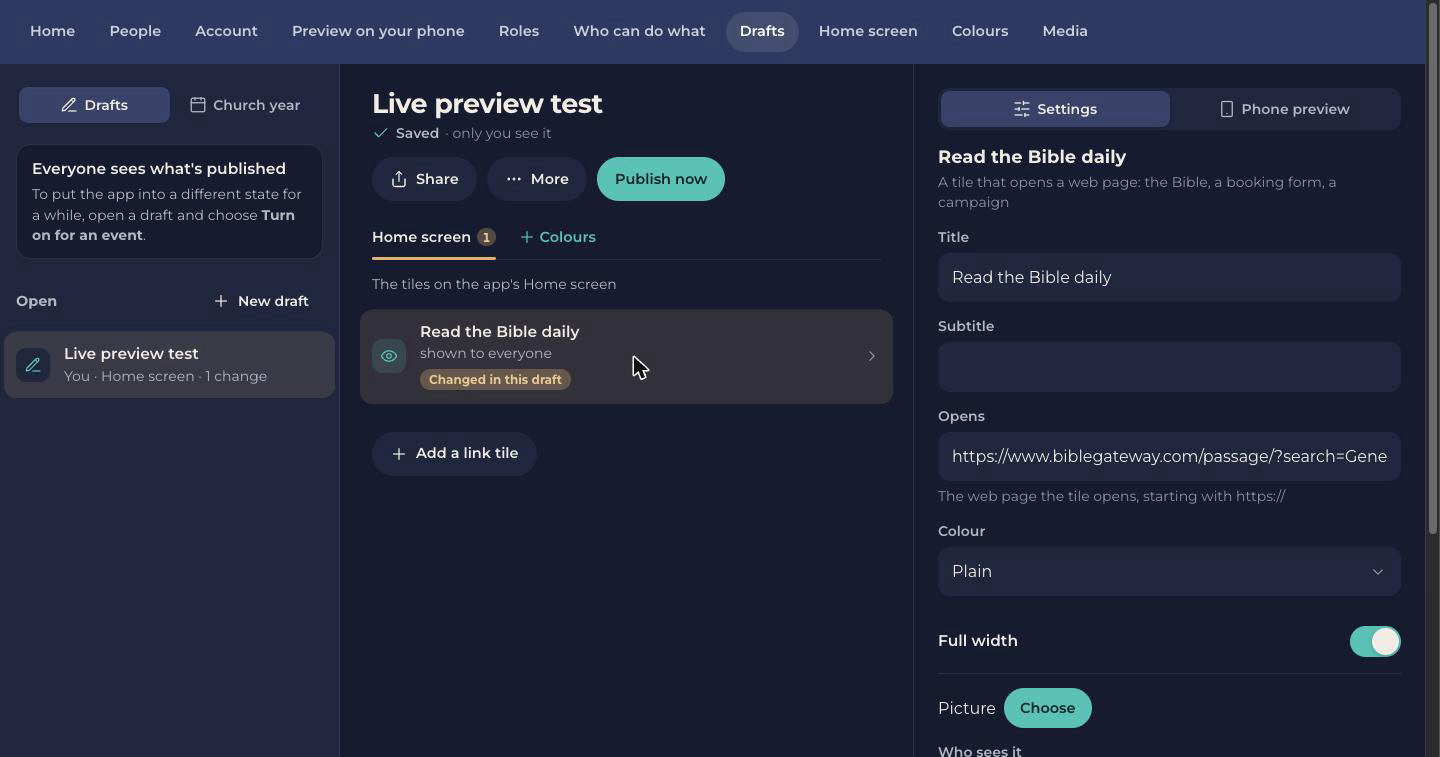
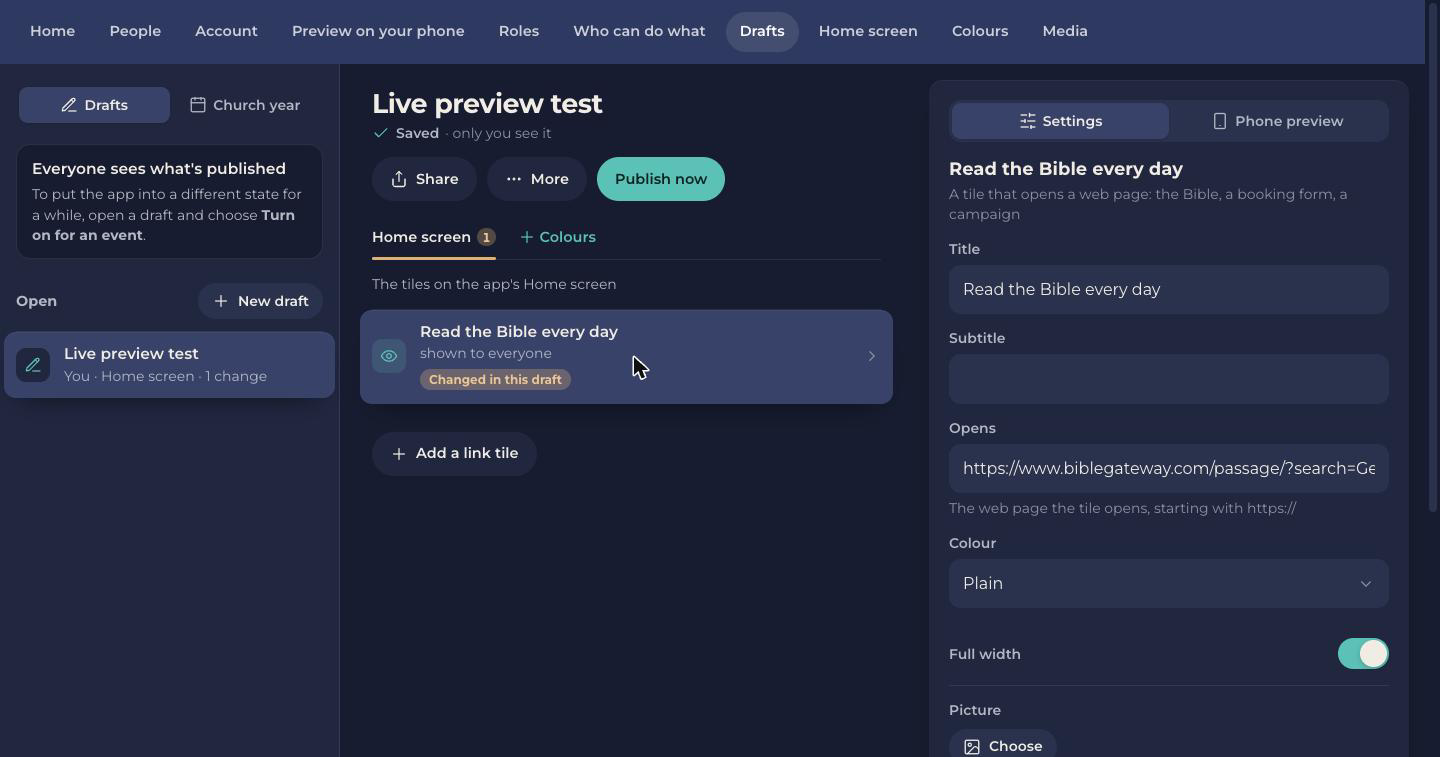
Drafts: fixes from the impeccable finish review
Selected rows are raised (segment surface and lift) rather than an orange wash, so selected
and changed no longer look alike; the settings and preview pane is a lifted panel; the
picture field has a proper label and a quiet button, leaving Publish now the only filled
primary; New draft has a button shape in the sand column; the admin scrollbar takes the
palette; the event layer band reads as one statement instead of a caption over a name.

Changed region(s): [[0.6562, 0.0, 1.0, 0.9115], [0.0, 0.395, 0.625, 0.5469], [0.6562, 0.8811, 0.7812, 1.0]]

diff --git a/src/Platform/GSBC.ChurchApp.Platform.Ui/wwwroot/css/ui.css b/src/Platform/GSBC.ChurchApp.Platform.Ui/wwwroot/css/ui.css
@@ -405,7 +405,8 @@ button.row:active, a.row:active { background: var(--line); }
 .workbench--no-detail { grid-template-columns: minmax(280px, 340px) minmax(0, 1fr); }
 .workbench__aside { padding: 20px 16px 32px; background: var(--sand); border-right: 1px solid var(--line); }
 .workbench__main { min-width: 0; padding: 24px 32px 48px; }
-.workbench__detail { padding: 24px; border-left: 1px solid var(--line); }
+.workbench__detail { padding: 16px; }
+.workbench__detail > * { padding: 20px; border-radius: var(--radius); background: var(--surface); box-shadow: var(--lift); }
 @media (max-width: 1200px) {
   .workbench { grid-template-columns: minmax(260px, 300px) minmax(0, 1fr); }
   .workbench__detail { grid-column: 2; border-left: 0; border-top: 1px solid var(--line); padding: 24px 32px; }
@@ -437,7 +438,7 @@ button.row:active, a.row:active { background: var(--line); }
 [data-theme-swatch="year-2026"] i:nth-child(2) { background: var(--swatch-year-2026-2); }
 [data-theme-swatch="year-2026"] i:nth-child(3) { background: var(--swatch-year-2026-3); }
 .check { display: grid; place-items: center; width: 24px; height: 24px; border-radius: var(--radius-full); background: var(--live); color: var(--on-live); }
-.row--selected { margin: 0 -12px; padding-left: 12px; padding-right: 12px; width: calc(100% + 24px); border-radius: var(--radius-field); border-bottom-color: transparent; background: color-mix(in srgb, var(--marker) 14%, transparent); }
+.row--selected { margin: 0 -12px; padding-left: 12px; padding-right: 12px; width: calc(100% + 24px); border-radius: var(--radius-field); border-bottom-color: transparent; background: var(--segment-on); box-shadow: var(--lift); }
 .preview-banner__hide { flex: none; min-height: 36px; padding: 0 10px; border: 0; background: none; color: inherit; font: inherit; font-weight: 600; text-decoration: underline; text-underline-offset: 3px; cursor: pointer; }
 .phone-frame { position: relative; flex: none; margin: 9px; border-radius: 46px; background: var(--page); color: var(--ink); box-shadow: 0 0 0 9px var(--device-bezel), var(--lift); overflow: hidden; transform: translateZ(0); }
 .phone-frame__screen { position: absolute; inset: 0; overflow: hidden auto; scrollbar-width: none; background: var(--page); padding-bottom: calc(var(--tab-h) + var(--sab) + 32px); }
@@ -454,3 +455,5 @@ button.row:active, a.row:active { background: var(--line); }
 .phone-frame .row { pointer-events: none; }
 .home-status { display: flex; margin-top: 14px; }
 .phone-frame .section { padding: 0 var(--gutter); }
+:root { scrollbar-color: var(--sand-strong) var(--page); }
+:root[data-scheme="dark"] .workbench__detail :is(.field__input, .btn--quiet, .segmented) { background: var(--sand-strong); }

diff --git a/src/Features/Configuration/GSBC.ChurchApp.Features.Configuration.Client/wwwroot/css/drafts.css b/src/Features/Configuration/GSBC.ChurchApp.Features.Configuration.Client/wwwroot/css/drafts.css
@@ -11,8 +11,8 @@
 .layer-band__body { flex: 1; display: grid; gap: 2px; min-width: 12rem; }
 .layer-band__label { font-size: var(--text-caption); font-weight: 600; color: var(--masthead-note); }
 .layer-band--none .layer-band__label { color: var(--ink); font-size: var(--text-row); }
-.layer-band__name { padding: 0; border: 0; background: none; color: inherit; font: inherit; font-size: var(--text-title); font-weight: 700; letter-spacing: -0.015em; text-align: left; cursor: pointer; }
-.layer-band__name:hover { text-decoration: underline; text-underline-offset: 3px; }
+.layer-band__name { font-size: var(--text-title); font-weight: 700; letter-spacing: -0.015em; line-height: 1.25; }
+.layer-band__link { padding: 0; border: 0; background: none; color: inherit; font: inherit; text-align: left; text-decoration: underline; text-decoration-color: var(--masthead-note); text-underline-offset: 4px; cursor: pointer; }
 .layer-band__meta { font-size: var(--text-caption); color: var(--on-masthead-2); }
 .layer-band--none .layer-band__meta { color: var(--ink-2); line-height: 1.45; }
 .layer-band__warning { display: flex; gap: 6px; align-items: flex-start; margin-top: 6px; font-size: var(--text-caption); font-weight: 600; color: var(--masthead-note); }
@@ -29,7 +29,7 @@
 .changed-for-everyone { display: grid; gap: 10px; margin-top: 10px; padding: 12px 14px; border-radius: var(--radius-field); background: color-mix(in srgb, var(--marker) 22%, var(--page)); color: var(--ink); font-size: var(--text-caption); line-height: 1.45; }
 .changed-for-everyone b { color: var(--marker-ink); }
 
-.detail-pane { position: sticky; top: 16px; display: grid; gap: var(--stack); }
+.detail-pane { position: sticky; top: 16px; display: grid; gap: var(--stack); align-content: start; }
 .detail-pane__hint { margin: 0; color: var(--ink-2); font-size: var(--text-row); line-height: 1.5; }
 .detail-pane__head { display: grid; gap: 2px; }
 .detail-pane__head h3 { margin: 0; font-size: var(--text-lead); font-weight: 700; overflow-wrap: anywhere; }
@@ -61,3 +61,6 @@
 .preview-window .field { width: min(100%, 393px); }
 .preview-window__title { margin: 0; font-size: var(--text-lead); font-weight: 700; }
 body:has(.preview-window) { max-width: none; padding: 0; }
+.workbench__aside .btn--quiet { background: var(--sand-strong); }
+.detail-pane .toggle-row__title { font-size: var(--text-caption); color: var(--ink-2); }
+.media-setting .field__label { flex-basis: 100%; }
